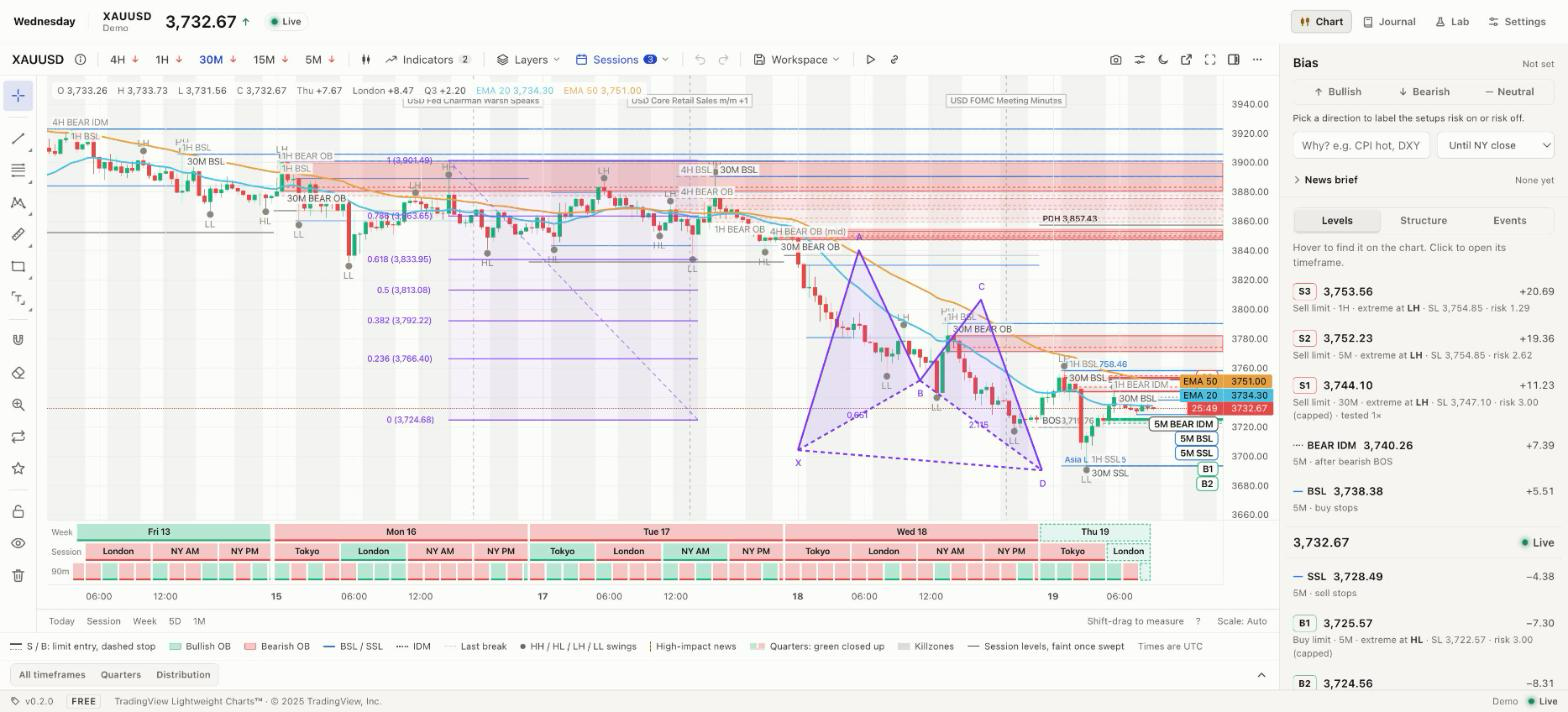
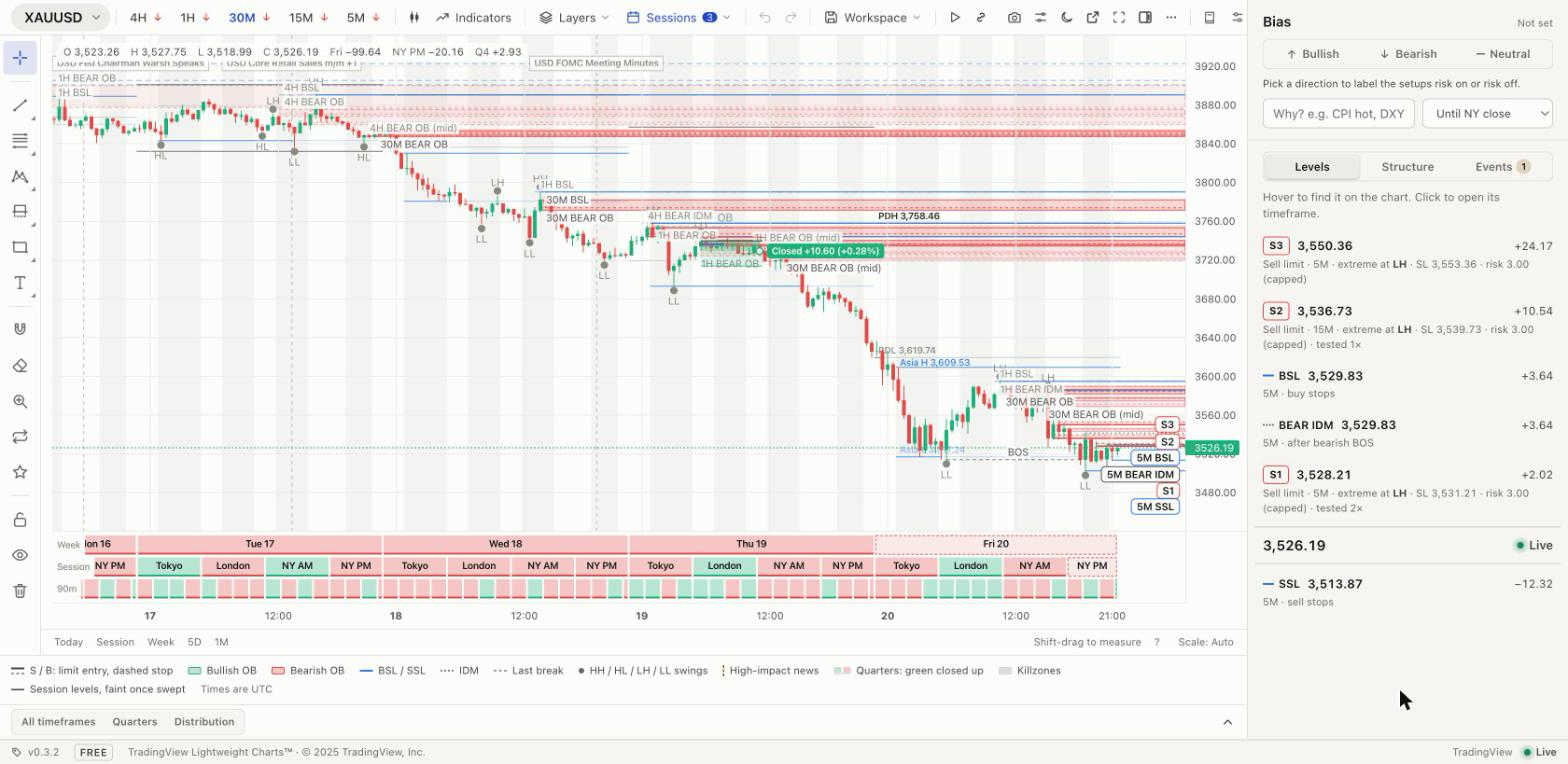
New dashboard screenshot: the chart without a page header, the market menu in its top bar

diff --git a/README.md b/README.md
@@ -5,7 +5,7 @@
 **Smart Money Concepts screener for XAUUSD.**<br>
 Order blocks, liquidity and inducement across 4H → 5M, with ranked limit setups and Telegram alerts.
 
-<img src="docs/images/dashboard.png" alt="Wednesday dashboard: the 30M gold chart with order blocks, liquidity, EMA 20 and 50, the chart toolbar on top, drawing tools on the left, the bias and level ladder on the right" width="100%">
+<img src="docs/images/dashboard.png" alt="Wednesday dashboard: the 30M gold chart with order blocks, liquidity and session levels, the chart toolbar with the market menu on top, drawing tools on the left, the bias and level ladder on the right" width="100%">
 
 </div>
 

diff --git a/docs/dashboard.md b/docs/dashboard.md
@@ -7,7 +7,7 @@ make serve          # the Rust server; or the Python one: make serve-py
 Opens on http://127.0.0.1:8000. It refreshes every few seconds; the server
 rescans once a minute. With the Python server (`make serve-py`), API docs live at `/api/docs`.
 
-![Dashboard: 30M chart with the top bar, EMA 20 and 50, a fib retracement and an XABCD pattern, the drawing tools, the rail and the dock](images/dashboard.png)
+![Dashboard: 30M gold chart with the market menu (XAUUSD) at the start of its top bar, order blocks, liquidity and session levels, the drawing tools, the bias and levels pane, and the dock](images/dashboard.png)
 
 ## Chart first
 
